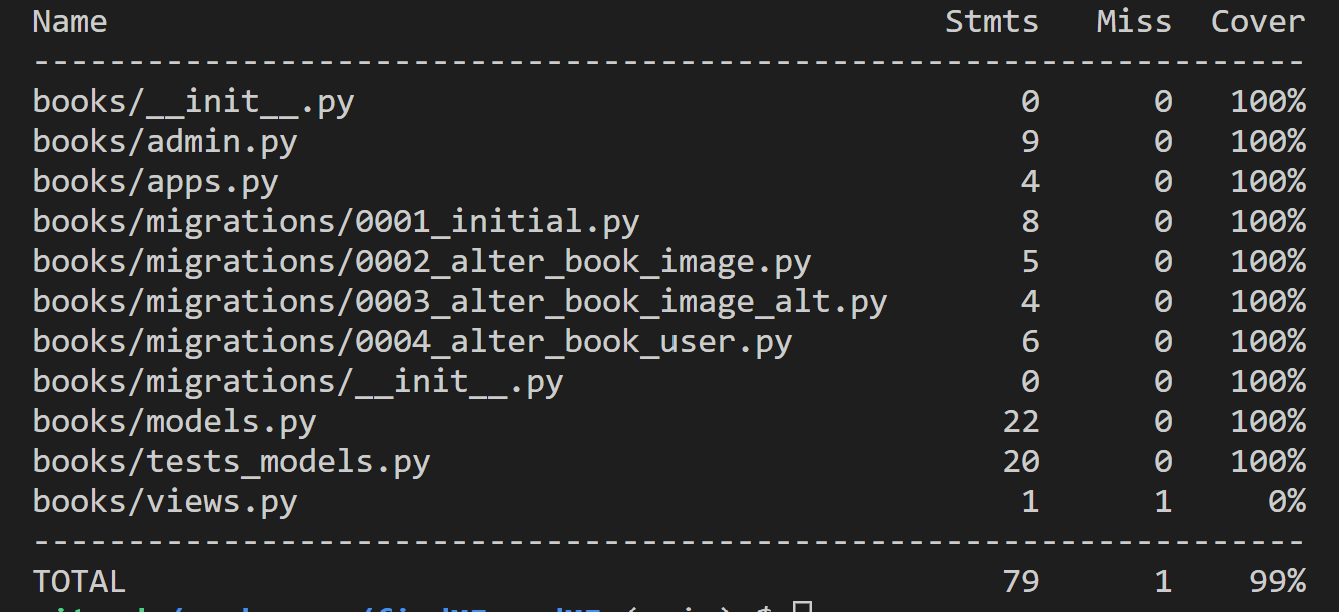
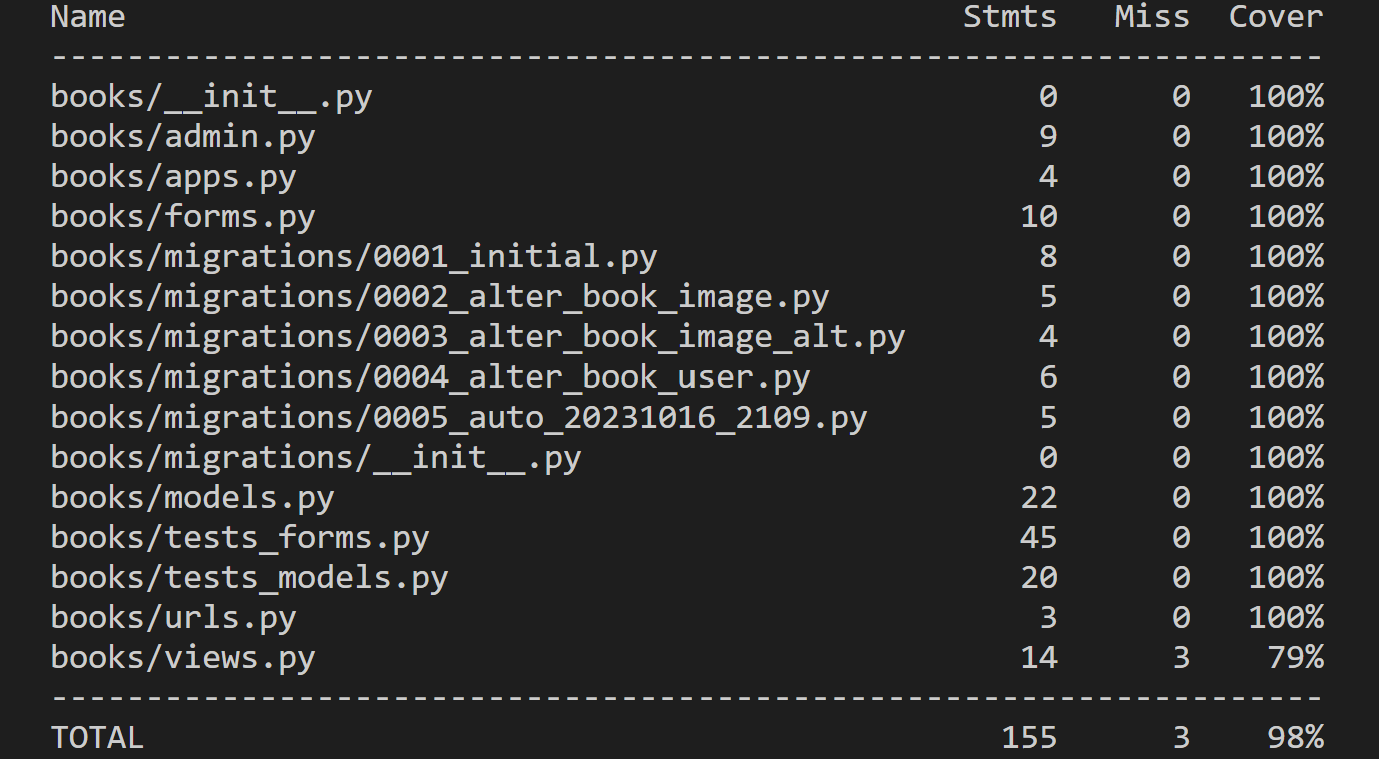
docs: add coverage report after testing view for register a new book page

diff --git a/README_testing.md b/README_testing.md
@@ -77,9 +77,13 @@ The Lighthouse in Chrome DevTools evaluates the webpage for performance, accessi
 ### Python
 | Module            | Report | Total Coverage   |
 |-------------------|--------|------------------|
-| `home`            | <img src="./docs/testing/automated/python_home.png" alt="python_home" width="200"/>   | 100% |
+| `home`            | <img src="./docs/testing/automated/python_home.png" alt="python_home" width="200"/>   | 79% |
 |`findmereadme`     | <img src="./docs/testing/automated/python_books.png" alt="python_books" width="200"/> | 99% |
 
+
+Todo: Testing 
+- form_valid()  of CreateView
+- clean() of FormModel
 
 # Bugs & Issus
 
